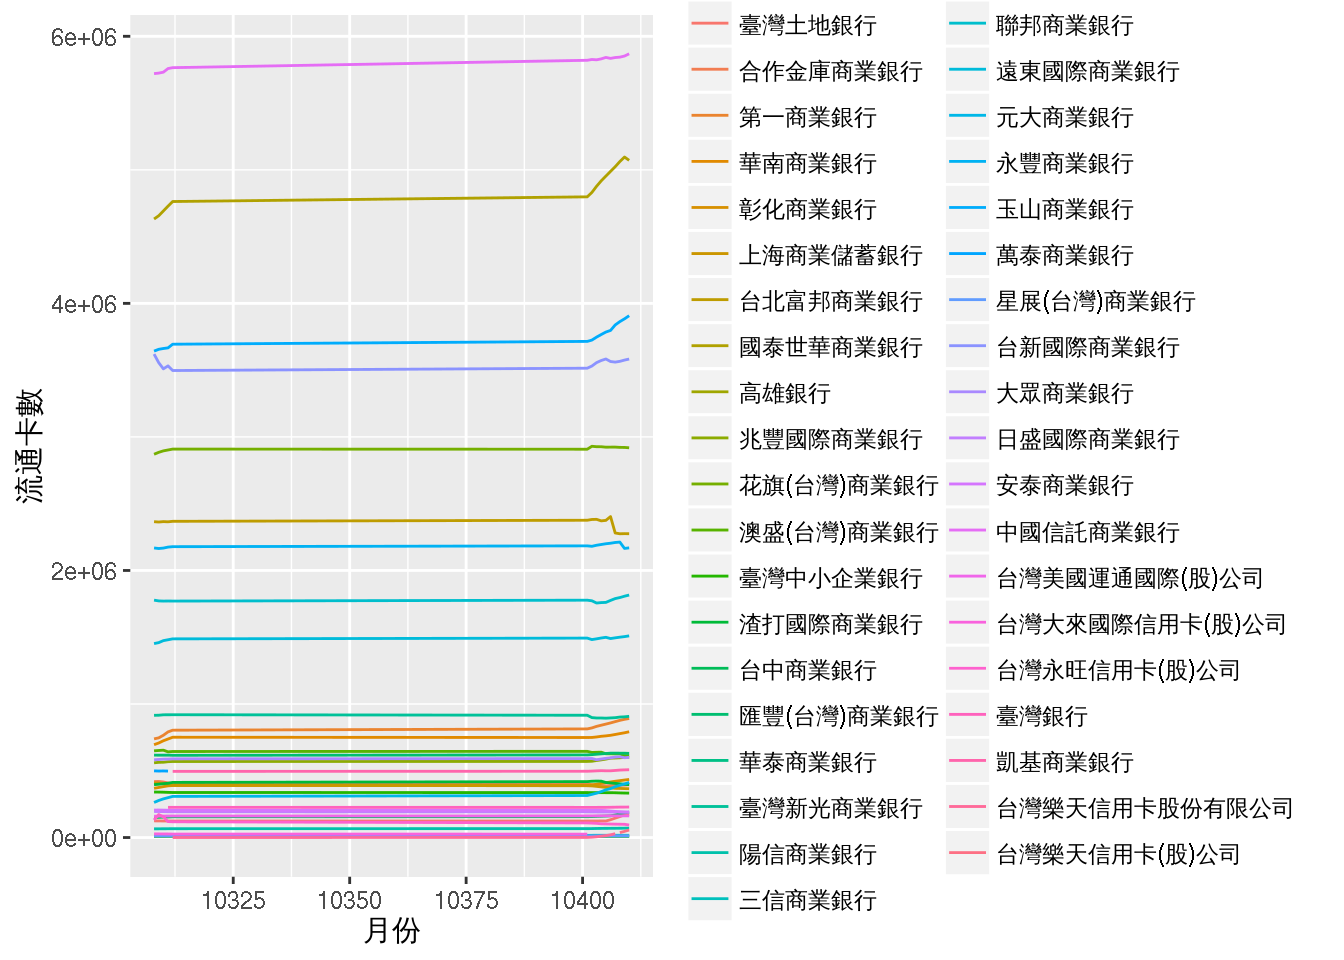
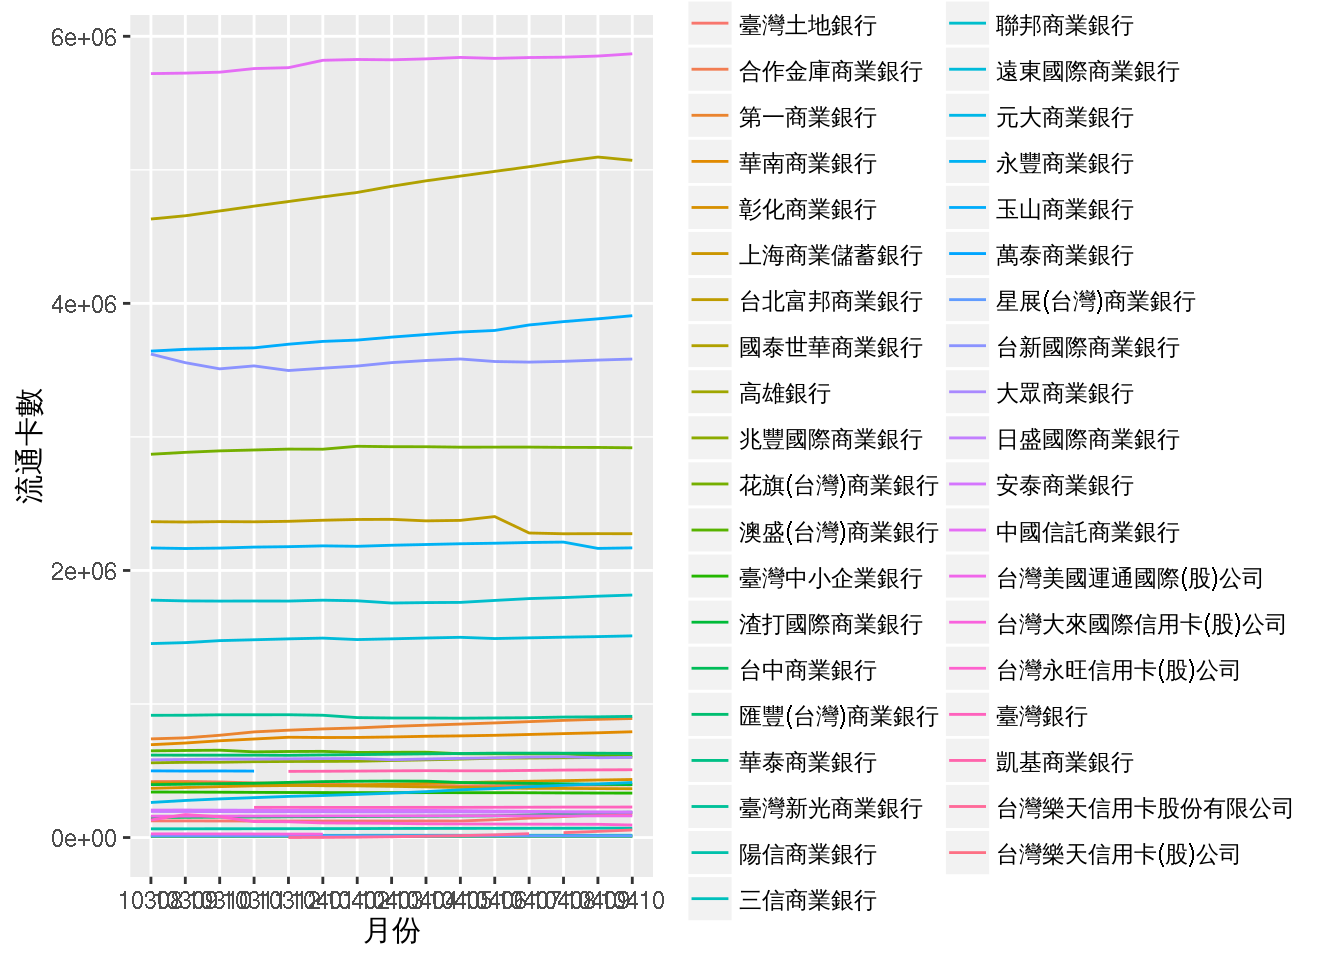
modify line chart

diff --git a/index.html b/index.html
@@ -431,9 +431,9 @@ credit$月份 &lt;-<span class="st"> </span><span class="kw">ifelse</span>(<span
 <div id="data-wrangling-second-step-data-type-conversion" class="section level3">
 <h3>2.1.2 Data Wrangling Second Step: data type conversion</h3>
 <div class="sourceCode"><pre class="sourceCode r"><code class="sourceCode r"><span class="co"># dplyr::mutate is fast !!!</span>
-credit &lt;-<span class="st"> </span>credit %&gt;%<span class="st"> </span><span class="kw">mutate</span>(
-  月份 =<span class="st"> </span><span class="kw">as.numeric</span>(月份)
-)
+<span class="co"># credit &lt;- credit %&gt;% mutate(</span>
+<span class="co">#   月份 = as.numeric(月份)</span>
+<span class="co"># )</span>
 <span class="co"># 試畫看看，我發現惹什麼問題？</span>
 credit %&gt;%<span class="st"> </span><span class="kw">ggplot</span>(<span class="kw">aes</span>(<span class="dt">x=</span>月份,<span class="dt">y=</span>流通卡數)) +<span class="st"> </span><span class="kw">geom_line</span>(<span class="kw">aes</span>(<span class="dt">group=</span>金融機構名稱))</code></pre></div>
 <p><img src="index_files/figure-html/data-1.png" title="" alt="" width="672" /></p>
@@ -503,19 +503,23 @@ try2 %&gt;%<span class="st"> </span><span class="kw">plot_ly</span>(<span class=
 <span class="co"># 挑選出,之前比較的那幾家銀行</span>
 try4 &lt;-<span class="st"> </span>try3 %&gt;%<span class="st"> </span><span class="kw">filter</span>(金融機構名稱 %in%<span class="st"> </span>try2$金融機構名稱)
 
-<span class="co"># 現行主流畫法</span>
-p &lt;-<span class="st"> </span><span class="kw">ggplot</span>(try3,<span class="kw">aes</span>(<span class="dt">x=</span>月份,<span class="dt">y=</span>流通卡數,<span class="dt">color=</span>金融機構名稱)) +
-<span class="st">  </span><span class="kw">geom_line</span>()
+
+try3 &lt;-<span class="st"> </span>try3 %&gt;%<span class="st"> </span><span class="kw">mutate</span>(月份=<span class="kw">factor</span>(月份,<span class="dt">levels=</span><span class="kw">sort</span>(<span class="kw">unique</span>(月份))))
+<span class="kw">class</span>(try3$月份)</code></pre></div>
+<pre><code>## [1] &quot;factor&quot;</code></pre>
+<div class="sourceCode"><pre class="sourceCode r"><code class="sourceCode r"><span class="co"># 現行主流畫法</span>
+p &lt;-<span class="st"> </span><span class="kw">ggplot</span>(try3,<span class="kw">aes</span>(<span class="dt">x=</span>月份,<span class="dt">y=</span>流通卡數,<span class="dt">color=</span>金融機構名稱, <span class="dt">group =</span> 金融機構名稱)) +
+<span class="st">  </span><span class="kw">geom_line</span>() 
 p</code></pre></div>
 <p><img src="index_files/figure-html/Line-1.png" title="" alt="" width="672" /></p>
-<div class="sourceCode"><pre class="sourceCode r"><code class="sourceCode r">p &lt;-<span class="st"> </span><span class="kw">ggplot</span>(try4,<span class="kw">aes</span>(<span class="dt">x=</span>月份,<span class="dt">y=</span>流通卡數,<span class="dt">color=</span>金融機構名稱)) +
+<div class="sourceCode"><pre class="sourceCode r"><code class="sourceCode r">p &lt;-<span class="st"> </span><span class="kw">ggplot</span>(try4,<span class="kw">aes</span>(<span class="dt">x=</span>月份,<span class="dt">y=</span>流通卡數,<span class="dt">color=</span>金融機構名稱,<span class="dt">group =</span> 金融機構名稱)) +
 <span class="st">  </span><span class="kw">geom_line</span>()
 p</code></pre></div>
 <p><img src="index_files/figure-html/Line-2.png" title="" alt="" width="672" /></p>
 <div class="sourceCode"><pre class="sourceCode r"><code class="sourceCode r"><span class="co"># 潮流畫法（簡單板，某些可以！）</span>
 <span class="kw">plot_ly</span>(p)</code></pre></div>
 <p><div id="htmlwidget-8370" style="width:672px;height:480px;" class="plotly"></div>
-<script type="application/json" data-for="htmlwidget-8370">{"x":{"data":[{"x":[10308,10309,10310,10311,10312,10401,10402,10403,10404,10405,10406,10407,10408,10409,10410],"y":[2365225,2362729,2365768,2364369,2367995,2376014,2381816,2382773,2371443,2375060,2403451,2280596,2274799,2275626,2275159],"name":"台北富邦商業銀行","text":[null],"type":"scatter","mode":"lines","line":{"dash":"solid","color":"rgb(248,118,109)","width":5.34505913337863},"xaxis":"x1","yaxis":"y1","showlegend":true},{"x":[10308,10309,10310,10311,10312,10401,10402,10403,10404,10405,10406,10407,10408,10409,10410],"y":[2870159,2884587,2895539,2902172,2908755,2907945,2929905,2926715,2926548,2923208,2923602,2923745,2921708,2921345,2918634],"name":"花旗(台灣)商業銀行","text":[null],"type":"scatter","mode":"lines","line":{"dash":"solid","color":"rgb(196,154,0)","width":5.34505913337863},"xaxis":"x1","yaxis":"y1","showlegend":true},{"x":[10308,10309,10310,10311,10312,10401,10402,10403,10404,10405,10406,10407,10408,10409,10410],"y":[915317,915888,919137,919343,919693,915711,898152,895162,895126,893692,895696,897462,902155,903886,907443],"name":"臺灣新光商業銀行","text":[null],"type":"scatter","mode":"lines","line":{"dash":"solid","color":"rgb(83,180,0)","width":5.34505913337863},"xaxis":"x1","yaxis":"y1","showlegend":true},{"x":[10308,10309,10310,10311,10312,10401,10402,10403,10404,10405,10406,10407,10408,10409,10410],"y":[1777700,1771951,1770664,1771271,1770774,1777391,1772811,1756151,1759390,1760832,1775563,1789386,1797061,1807333,1815908],"name":"聯邦商業銀行","text":[null],"type":"scatter","mode":"lines","line":{"dash":"solid","color":"rgb(0,192,148)","width":5.34505913337863},"xaxis":"x1","yaxis":"y1","showlegend":true},{"x":[10308,10309,10310,10311,10312,10401,10402,10403,10404,10405,10406,10407,10408,10409,10410],"y":[1452464,1459554,1474541,1481054,1487776,1493439,1482479,1487942,1494199,1499358,1490141,1495432,1500324,1504646,1510258],"name":"遠東國際商業銀行","text":[null],"type":"scatter","mode":"lines","line":{"dash":"solid","color":"rgb(0,182,235)","width":5.34505913337863},"xaxis":"x1","yaxis":"y1","showlegend":true},{"x":[10308,10309,10310,10311,10312,10401,10402,10403,10404,10405,10406,10407,10408,10409,10410],"y":[2168488,2164353,2167548,2174946,2178171,2184231,2180900,2188742,2194349,2199962,2203939,2209480,2212411,2165121,2169164],"name":"永豐商業銀行","text":[null],"type":"scatter","mode":"lines","line":{"dash":"solid","color":"rgb(165,138,255)","width":5.34505913337863},"xaxis":"x1","yaxis":"y1","showlegend":true},{"x":[10308,10309,10310,10311,10312,10401,10402,10403,10404,10405,10406,10407,10408,10409,10410],"y":[3620273,3556034,3509808,3531899,3497227,3514678,3530779,3556402,3572233,3583601,3564681,3560269,3565954,3575453,3583167],"name":"台新國際商業銀行","text":[null],"type":"scatter","mode":"lines","line":{"dash":"solid","color":"rgb(251,97,215)","width":5.34505913337863},"xaxis":"x1","yaxis":"y1","showlegend":true}],"layout":{"xaxis":{"tickcolor":"rgb(51,51,51)","gridcolor":"rgb(255,255,255)","showgrid":true,"ticks":"outside","showticklabels":true,"type":"linear","title":"月份","zeroline":false,"showline":false},"yaxis":{"tickcolor":"rgb(51,51,51)","gridcolor":"rgb(255,255,255)","showgrid":true,"ticks":"outside","showticklabels":true,"type":"linear","title":"流通卡數","zeroline":false,"showline":false},"plot_bgcolor":"rgb(235,235,235)","margin":{"b":40,"l":60,"t":25,"r":10},"legend":{"bordercolor":"transparent","x":1.01,"y":0.7125,"xref":"paper","yref":"paper","xanchor":"left","yanchor":"top","font":{"family":""},"bgcolor":"rgb(255,255,255)"},"showlegend":false,"titlefont":{"family":""},"paper_bgcolor":"rgb(255,255,255)"}},"evals":[]}</script></p>
+<script type="application/json" data-for="htmlwidget-8370">{"x":{"data":[{"x":["10308","10309","10310","10311","10312","10401","10402","10403","10404","10405","10406","10407","10408","10409","10410"],"y":[2365225,2362729,2365768,2364369,2367995,2376014,2381816,2382773,2371443,2375060,2403451,2280596,2274799,2275626,2275159],"name":"台北富邦商業銀行","text":[null],"type":"scatter","mode":"lines","line":{"dash":"solid","color":"rgb(248,118,109)","width":5.34505913337863},"xaxis":"x1","yaxis":"y1","showlegend":true},{"x":["10308","10309","10310","10311","10312","10401","10402","10403","10404","10405","10406","10407","10408","10409","10410"],"y":[2870159,2884587,2895539,2902172,2908755,2907945,2929905,2926715,2926548,2923208,2923602,2923745,2921708,2921345,2918634],"name":"花旗(台灣)商業銀行","text":[null],"type":"scatter","mode":"lines","line":{"dash":"solid","color":"rgb(196,154,0)","width":5.34505913337863},"xaxis":"x1","yaxis":"y1","showlegend":true},{"x":["10308","10309","10310","10311","10312","10401","10402","10403","10404","10405","10406","10407","10408","10409","10410"],"y":[915317,915888,919137,919343,919693,915711,898152,895162,895126,893692,895696,897462,902155,903886,907443],"name":"臺灣新光商業銀行","text":[null],"type":"scatter","mode":"lines","line":{"dash":"solid","color":"rgb(83,180,0)","width":5.34505913337863},"xaxis":"x1","yaxis":"y1","showlegend":true},{"x":["10308","10309","10310","10311","10312","10401","10402","10403","10404","10405","10406","10407","10408","10409","10410"],"y":[1777700,1771951,1770664,1771271,1770774,1777391,1772811,1756151,1759390,1760832,1775563,1789386,1797061,1807333,1815908],"name":"聯邦商業銀行","text":[null],"type":"scatter","mode":"lines","line":{"dash":"solid","color":"rgb(0,192,148)","width":5.34505913337863},"xaxis":"x1","yaxis":"y1","showlegend":true},{"x":["10308","10309","10310","10311","10312","10401","10402","10403","10404","10405","10406","10407","10408","10409","10410"],"y":[1452464,1459554,1474541,1481054,1487776,1493439,1482479,1487942,1494199,1499358,1490141,1495432,1500324,1504646,1510258],"name":"遠東國際商業銀行","text":[null],"type":"scatter","mode":"lines","line":{"dash":"solid","color":"rgb(0,182,235)","width":5.34505913337863},"xaxis":"x1","yaxis":"y1","showlegend":true},{"x":["10308","10309","10310","10311","10312","10401","10402","10403","10404","10405","10406","10407","10408","10409","10410"],"y":[2168488,2164353,2167548,2174946,2178171,2184231,2180900,2188742,2194349,2199962,2203939,2209480,2212411,2165121,2169164],"name":"永豐商業銀行","text":[null],"type":"scatter","mode":"lines","line":{"dash":"solid","color":"rgb(165,138,255)","width":5.34505913337863},"xaxis":"x1","yaxis":"y1","showlegend":true},{"x":["10308","10309","10310","10311","10312","10401","10402","10403","10404","10405","10406","10407","10408","10409","10410"],"y":[3620273,3556034,3509808,3531899,3497227,3514678,3530779,3556402,3572233,3583601,3564681,3560269,3565954,3575453,3583167],"name":"台新國際商業銀行","text":[null],"type":"scatter","mode":"lines","line":{"dash":"solid","color":"rgb(251,97,215)","width":5.34505913337863},"xaxis":"x1","yaxis":"y1","showlegend":true}],"layout":{"xaxis":{"tickcolor":"rgb(51,51,51)","gridcolor":"rgb(255,255,255)","showgrid":true,"ticks":"outside","showticklabels":true,"type":"category","title":"月份","zeroline":false,"showline":false},"yaxis":{"tickcolor":"rgb(51,51,51)","gridcolor":"rgb(255,255,255)","showgrid":true,"ticks":"outside","showticklabels":true,"type":"linear","title":"流通卡數","zeroline":false,"showline":false},"plot_bgcolor":"rgb(235,235,235)","margin":{"b":40,"l":60,"t":25,"r":10},"legend":{"bordercolor":"transparent","x":1.01,"y":0.7125,"xref":"paper","yref":"paper","xanchor":"left","yanchor":"top","font":{"family":""},"bgcolor":"rgb(255,255,255)"},"showlegend":false,"titlefont":{"family":""},"paper_bgcolor":"rgb(255,255,255)"}},"evals":[]}</script></p>
 <div id="hw----" class="section level4">
 <h4>[練習&amp;HW] 畫畫看 <code>有效卡數</code> 與 <code>當月發卡數</code></h4>
 <!-- end of list -->
